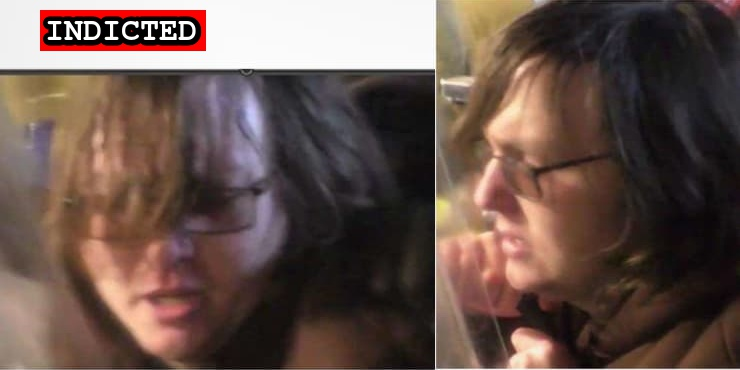
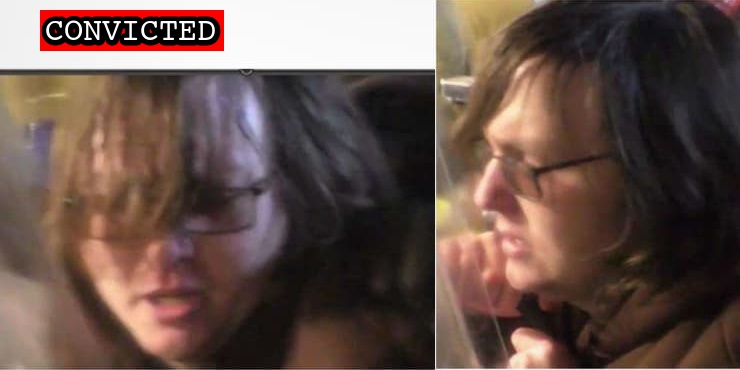
McCaughey conviction

Changed region(s): [[0.0311, 0.0297, 0.3108, 0.1486]]

diff --git a/docs/_suspects/patrick-mccaughey.md b/docs/_suspects/patrick-mccaughey.md
@@ -4,18 +4,19 @@ lastName: McCaughey
 hashtag: ThePinMan
 aka:
 residence: Connecticut
-status: Indicted
+status: Convicted
 date: 2021-01-19
 charged: 2021-01-19
 indicted: 2021-01-29
-convicted:
+convicted: 2022-09-13
+acquitted:
 sentenced:
 dismissed:
 deceased:
 plea_hearing:
-sentencing:
 trial_date: 2022-08-29
 trial_type: Bench Trial
+sentencing:
 age: 23
 occupation:
 affiliations:
@@ -44,6 +45,42 @@ videos:
   - title: Exhibit 4.mp4 (0:00:24)
     url: https://propublica-data-j6cases-videos.s3.us-east-1.amazonaws.com/b9b87ee0ce2c013960702cde48001122.mp4
 charges:
+  - code: 18 USC § 111(a)(1), 2
+    title: Assaulting, resisting, or impeding certain officers or employees (Aiding and Abetting)
+    url: https://www.law.cornell.edu/uscode/text/18/111
+    felony: true
+  - code: 18 USC § 111(a)(1) and (b)
+    title: Assaulting, resisting, or impeding certain officers or employees (using a deadly or dangerous weapon)
+    url: https://www.law.cornell.edu/uscode/text/18/111
+    felony: true
+  - code: 18 USC § 111(a)(1) and (b)
+    title: Assaulting, resisting, or impeding certain officers or employees (using a deadly or dangerous weapon)
+    url: https://www.law.cornell.edu/uscode/text/18/111
+    felony: true
+  - code: 18 USC § 1512(c)(2),2
+    title: Obstruction of an Official Proceeding (Aiding and Abetting)
+    url: https://www.law.cornell.edu/uscode/text/18/1512
+    felony: true
+  - code: 18 USC § 231(a)(3)
+    title: Obstruction of Law Enforcement During Civil Disorder
+    url: https://www.law.cornell.edu/uscode/text/18/231
+    felony: true
+  - code: 18 USC § 1752(a)(1), (b)(1)(A)
+    title: Entering a restricted building or grounds with a dangerous or deadly weapon
+    url: https://www.law.cornell.edu/uscode/text/18/1752
+    felony: true
+  - code: 18 USC § 1752(a)(1), (b)(1)(A)
+    title: Entering a restricted building or grounds with a dangerous or deadly weapon
+    url: https://www.law.cornell.edu/uscode/text/18/1752
+    felony: true
+  - code: 40 USC § 5104(e)(2)(D)
+    title: Disorderly Conduct in a Capitol Building
+    url: https://www.law.cornell.edu/uscode/text/40/5104
+    felony: false
+  - code: 40 USC § 5104(e)(2)(F)
+    title: Act of physical violence on Capitol grounds
+    url: https://www.law.cornell.edu/uscode/text/40/5104
+    felony: false
 sentence:
 ---
 
@@ -53,6 +90,6 @@ sentence:
 - [FBI Statement (Twitter)](https://twitter.com/FBIWFO/status/1351978524140331008?s=20)
 - [DC Police Wanted Post (Twitter)](https://twitter.com/DCPoliceDept/status/1350239956460036096?s=20)
 - [Statement of Facts](https://www.justice.gov/opa/page/file/1357246/download)
-- [Indictment](https://www.justice.gov/usao-dc/case-multi-defendant/file/1410701/download)
+- [Indictment](https://www.justice.gov/usao-dc/press-release/file/1424526/download)
 - [Defense Motion for Reconsideration of Release](https://extremism.gwu.edu/sites/g/files/zaxdzs2191/f/Patrick%20Edward%20McCaughey%20III%20Motion%20to%20Reopen%20Detention%20Hearing%20and%20for%20Release%20on%20Conditions.pdf)
 - [Arraignment and Status Conference Hearing Transcript](https://extremism.gwu.edu/sites/g/files/zaxdzs2191/f/McCaughey%20III%20et%20al%20Arraignment%20Hearing%20Status%20and%20Conference%20Transcript.pdf)
